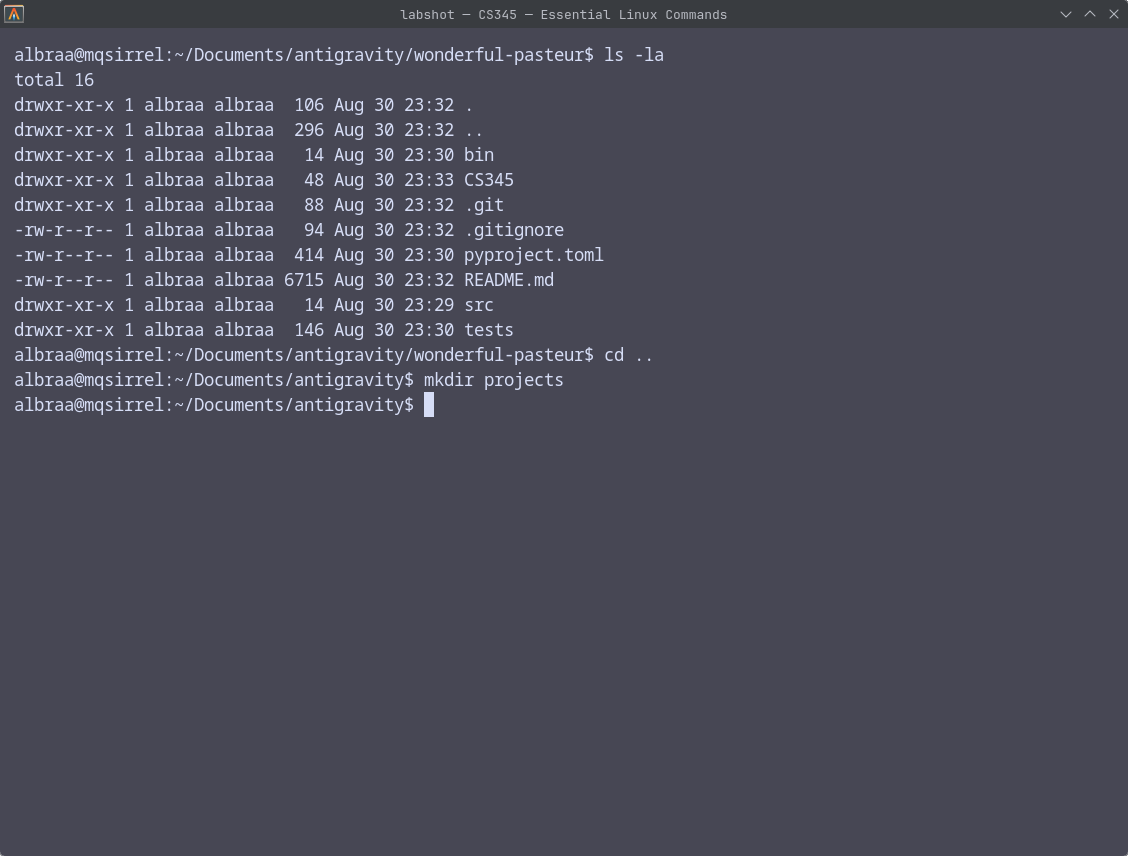
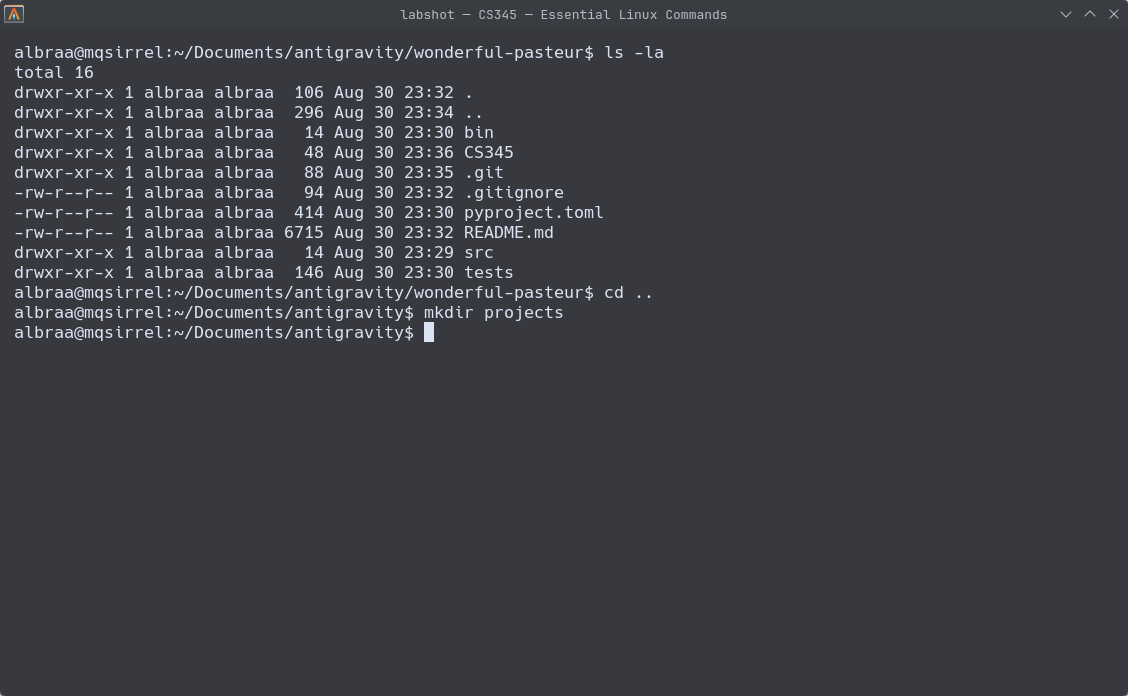
style: match Alacritty theme and typography to Konsole MaterialYou

diff --git a/src/labshot/config.py b/src/labshot/config.py
@@ -8,18 +8,28 @@ from typing import Dict, Any
 
 @dataclass
 class TerminalTheme:
-    """Terminal theme configuration optimized for high readability in reports."""
-    name: str = "labshot-high-contrast"
-    background: str = "#1e1e2e"
-    foreground: str = "#cdd6f4"
-    black: str = "#45475a"
-    red: str = "#f38ba8"
-    green: str = "#a6e3a1"
-    yellow: str = "#f9e2af"
-    blue: str = "#89b4fa"
-    magenta: str = "#f5c2e7"
-    cyan: str = "#94e2d5"
-    white: str = "#bac2de"
+    """Terminal theme configuration matching user's sleek Konsole / MaterialYou appearance."""
+    name: str = "Konsole-MaterialYou"
+    background: str = "#0c0e14"       # Deep dark background from Konsole MaterialYou
+    foreground: str = "#d2ddf2"       # Ice-blue/white high-contrast text
+    # Normal colors
+    black: str = "#1e222b"
+    red: str = "#e06c75"
+    green: str = "#98c379"
+    yellow: str = "#e5c07b"
+    blue: str = "#61afef"
+    magenta: str = "#c678dd"
+    cyan: str = "#56b6c2"
+    white: str = "#c2c2cb"
+    # Bright colors
+    bright_black: str = "#454d5a"
+    bright_red: str = "#e57c85"
+    bright_green: str = "#a3ca86"
+    bright_yellow: str = "#ebd18a"
+    bright_blue: str = "#71b7f2"
+    bright_magenta: str = "#cf8ce2"
+    bright_cyan: str = "#68c5cf"
+    bright_white: str = "#ffffff"
 
 
 @dataclass
@@ -27,8 +37,8 @@ class TerminalConfig:
     """Terminal window dimensions, typography and behavior."""
     columns: int = 110
     lines: int = 32
-    font_family: str = "monospace"
-    font_size: float = 13.0
+    font_family: str = "Hack"
+    font_size: float = 12.5
     padding_x: int = 14
     padding_y: int = 14
     opacity: float = 1.0
@@ -42,7 +52,7 @@ class LabConfig:
     base_dir: Path = field(default_factory=lambda: Path.cwd() / "CS345")
     prompt_template: str = r"\u@\h:\w\$ "
     default_timeout_seconds: float = 30.0
-    post_command_delay: float = 0.12  # Wait for GPU/compositor render buffer
+    post_command_delay: float = 0.12
     terminal_config: TerminalConfig = field(default_factory=TerminalConfig)
 
 

diff --git a/src/labshot/terminal.py b/src/labshot/terminal.py
@@ -38,7 +38,7 @@ class TerminalManager:
         )
 
     def generate_alacritty_config(self, target_path: Path) -> None:
-        """Generate a clean, high-contrast Alacritty TOML config for report-ready screenshots."""
+        """Generate a clean, high-contrast Alacritty TOML config styled after user's Konsole profile."""
         tcfg = self.config.terminal_config
         theme = tcfg.theme
 
@@ -50,7 +50,8 @@ opacity = 1.0
 
 [font]
 size = {tcfg.font_size}
-normal = {{ family = "{tcfg.font_family}" }}
+normal = {{ family = "{tcfg.font_family}", style = "Regular" }}
+bold = {{ family = "{tcfg.font_family}", style = "Bold" }}
 
 [colors.primary]
 background = "{theme.background}"
@@ -65,6 +66,16 @@ blue = "{theme.blue}"
 magenta = "{theme.magenta}"
 cyan = "{theme.cyan}"
 white = "{theme.white}"
+
+[colors.bright]
+black = "{theme.bright_black}"
+red = "{theme.bright_red}"
+green = "{theme.bright_green}"
+yellow = "{theme.bright_yellow}"
+blue = "{theme.bright_blue}"
+magenta = "{theme.bright_magenta}"
+cyan = "{theme.bright_cyan}"
+white = "{theme.bright_white}"
 
 [cursor]
 style = {{ shape = "Block", blinking = "Off" }}
